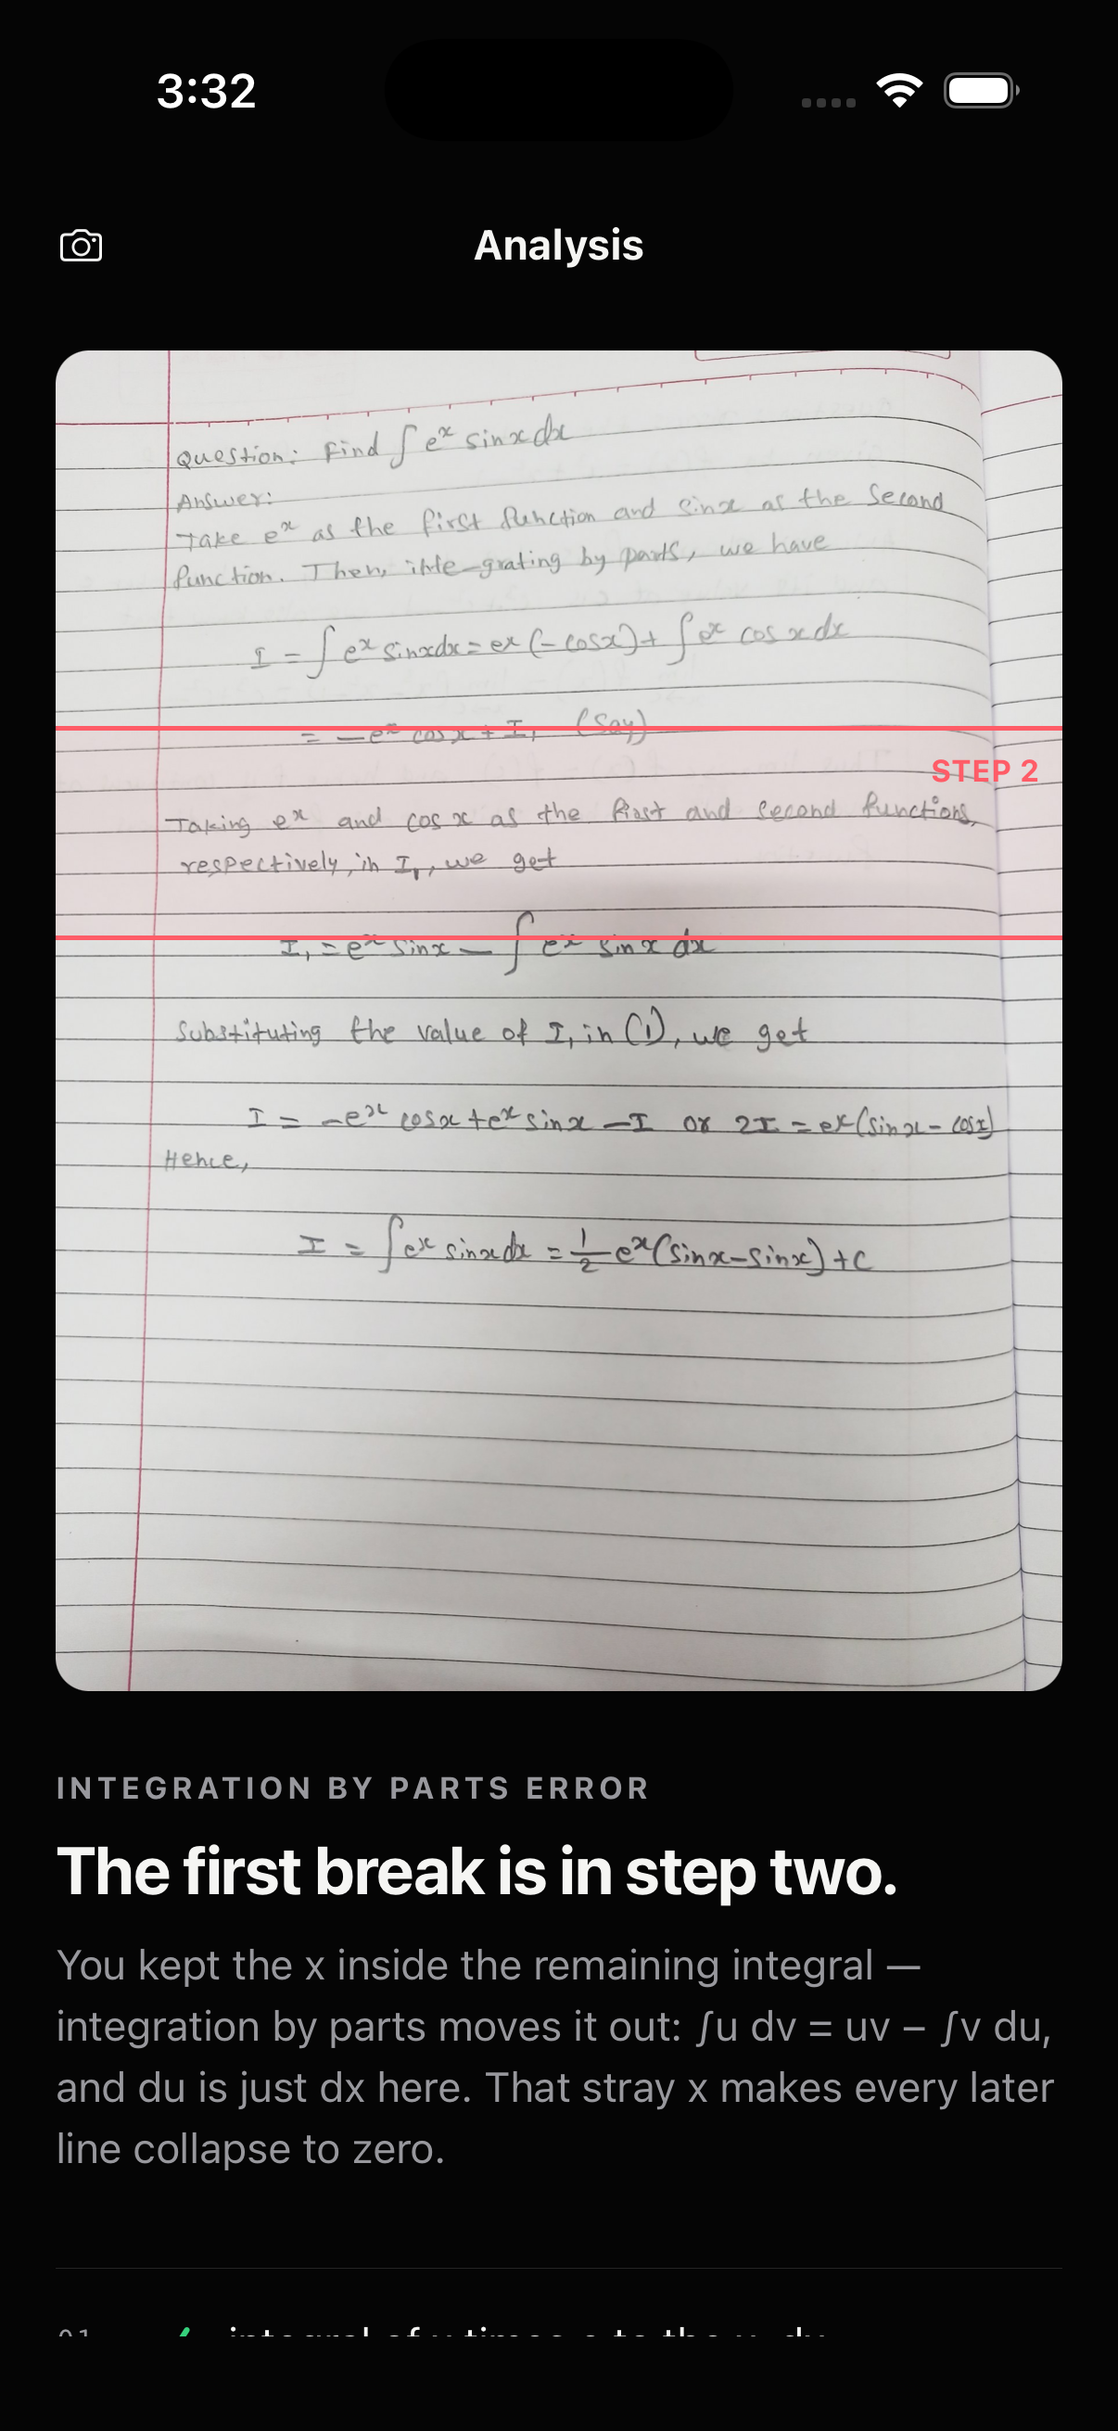
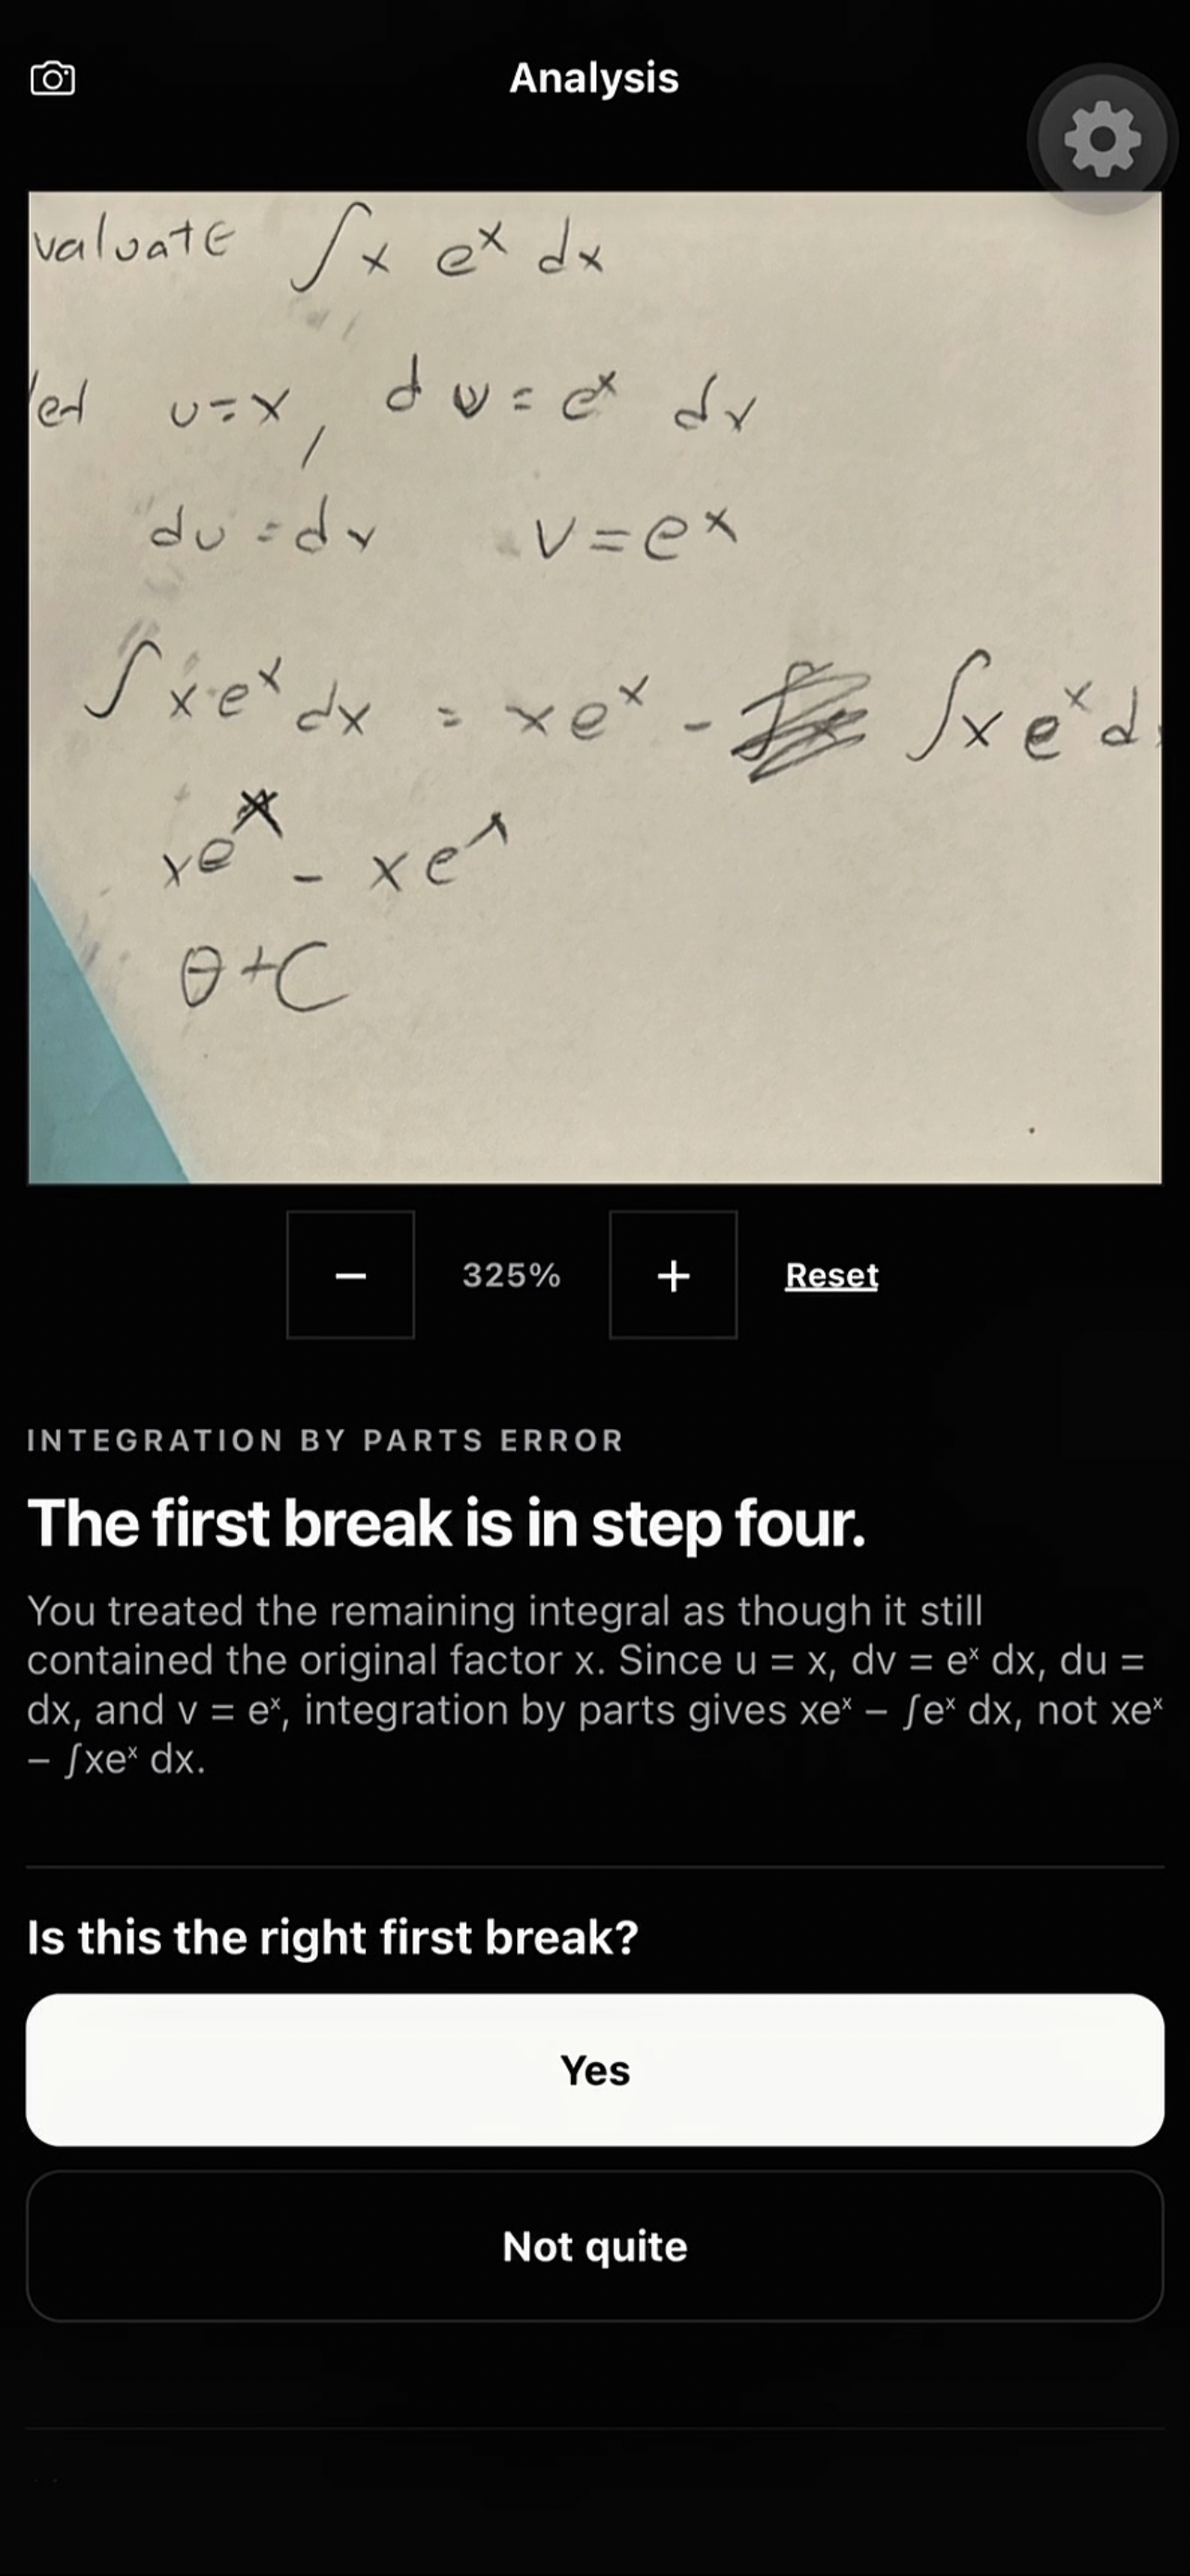
docs: finalize Prometheus submission package

diff --git a/docs/submission/PROMETHEUS-ABOUT.md b/docs/submission/PROMETHEUS-ABOUT.md
@@ -1,45 +1,49 @@
 ## Inspiration
 
-I kept coming back to a frustrating gap in the way most math tools give feedback. A final-answer checker can tell me that my answer is wrong, but that is usually the least useful part. What I really want to know is: **where did my reasoning first stop making sense?**
+I kept coming back to something that frustrated me about most math tools: they can tell you that your final answer is wrong, but they rarely tell you where your thinking first went off track.
 
-That question matters because one early misconception can make every line after it look wrong. When I was learning math, I often wished I could get feedback on the exact step where I went off track instead of comparing my final answer with a solution and trying to work backward. I built Snap-a-Mistake to make that kind of feedback immediate.
+That is usually the part I actually want help with. One small mistake near the beginning can affect every line that follows, and comparing my answer with a completed solution means working backward to guess what happened. I built Snap-a-Mistake because I wanted feedback that starts with a more useful question: **where did my reasoning first stop making sense?**
 
 ## What it does
 
-Snap-a-Mistake is a mobile app that analyzes a photo of handwritten algebra or calculus. It reads the work as a sequence of steps, finds the earliest unsupported step, names the likely misconception, and explains why that transition fails.
+Snap-a-Mistake is a mobile app for handwritten algebra and calculus. A student takes a photo of their work, and the app reads it as a sequence of steps. It then finds the earliest step that does not follow, identifies the likely misconception, and explains what changed.
 
-It then creates a similar practice problem focused on the same idea. The goal is not just to correct one answer. It is to give the student a short learning loop: find the first break, understand it in context, try the concept again, and check the new work.
+The feedback stays connected to the original photo, so the student can see the explanation beside the line they actually wrote instead of looking at a separate answer key. Afterward, the app creates a similar practice problem focused on the same idea.
 
-The diagnosis is shown alongside the original page so the feedback stays connected to what the student actually wrote. The app records misconception categories, scan revisions, follow-up links, and owned scan photos locally on the device until the student deletes them, without requiring an account.
+The goal is not just to correct one answer. It is to create a short learning loop: find the first break, understand it in context, try the idea again, and check the new work. Previous scans, revisions, linked follow-up attempts, and recurring misconception patterns stay on the student's device until they delete them. No account is required.
 
 ## How I built it
 
-I built Snap-a-Mistake as a TypeScript monorepo with three shared parts: an Expo and React Native mobile app, a stateless Fastify server, and a shared package of Zod schemas used by both sides.
+I built the project by myself as a TypeScript monorepo. It has an Expo and React Native mobile app, a stateless Fastify server, and a shared package of Zod schemas that keeps both sides working with the same validated data.
 
-The AI workflow uses separate checks for reading and reasoning. First, a multimodal transcription pass converts the photographed page into ordered steps and estimates where each step appears vertically. A second image pass compares each nonempty transcript with the visible ink before grading continues. Blank or non-math work stays blocked, while ordinary uncertainty continues into diagnosis. The app asks for a new photo only when stage-one confidence is exceptionally low and that second pass rejects both faithfulness and legibility; **Proceed anyway** remains a clearly warned override for that request only. Then a reasoning pass re-derives the solution, identifies the first incorrect step, selects a label from a controlled misconception vocabulary, and creates an explanation and follow-up problem. A final independent verifier checks the diagnosis. If it disagrees, the app shows a softer “second look” state instead of confidently telling the student that a step is wrong.
+I separated the AI workflow into reading, reasoning, and verification instead of relying on one large model response. First, a multimodal pass turns the photographed page into ordered steps and estimates where each line appears on the page. A second image check compares that transcript with the visible handwriting before any grading happens.
 
-I used structured JSON responses and shared validation because model output is part of the product interface, not just text to display. Invalid output receives one correction attempt before reaching the app. The server does not store photos or learning history, while misconception trends are saved locally with SQLite.
+I deliberately made the unreadable-photo warning conservative because I did not want decent handwriting rejected too easily. Blank and non-math photos are still stopped, but ordinary uncertainty continues to the reasoning stage. The app only asks for a new photo when the first pass has exceptionally low confidence and the second check rejects both the transcript's faithfulness and the image's legibility. Even then, the student can choose **Proceed anyway** for that request.
+
+Next, a reasoning pass works through the full solution, finds the first unsupported step, chooses a label from a controlled misconception vocabulary, and creates an explanation and a similar problem. A separate verifier checks that diagnosis. If it disagrees, the app shows a softer “second look” result instead of presenting an uncertain judgment as a fact.
+
+I used structured JSON and shared validation because model output is part of the product interface, not just text to place on a screen. Malformed output gets one correction attempt before it can reach the app. The server does not store photos or learning history; the app stores scan history and patterns locally with SQLite.
 
 ## Challenges I ran into
 
-The hardest problem was making the system find the **first** incorrect step reliably. Checking whether a final answer is correct is much easier. Once an early step is wrong, later steps may also be invalid, but highlighting those later consequences does not help the student understand the original cause.
+The hardest part was getting the system to focus on the **first** incorrect step. Checking a final answer is much easier. Once one early line is wrong, several later lines may also fail, but highlighting a later consequence does not explain the original mistake.
 
-I had to make the pipeline reason across the entire sequence while still returning one precise location. I also introduced a controlled misconception vocabulary so similar errors would receive consistent labels rather than slightly different descriptions every time.
+I had to make the pipeline consider the whole solution while still returning one precise location. I also added a controlled misconception vocabulary so similar errors receive consistent labels instead of a slightly different description on every scan.
 
-Handwriting created another challenge. A page is not clean structured data: lines can be slanted, crossed out, faint, or spaced unevenly. I kept both a mathematical transcription and a plain-language version of each step, along with vertical position bands, so the app could connect the diagnosis back to the photograph.
+Handwriting was another challenge. Real pages are not clean structured data: lines can be faint, slanted, crossed out, or spaced unevenly. I kept both a mathematical transcription and a plain-language reading of each step, along with its approximate vertical position, so the app could connect its diagnosis back to the photograph.
 
-Model reliability also required more than prompt tuning. Responses can be malformed, truncated, or overly confident. Shared schemas, correction retries, an independent verifier, uncertainty states, and regression tests all became important parts of the design.
+I also learned quickly that reliability needed more than prompt tuning. Responses can be malformed, incomplete, or too confident. Shared schemas, correction retries, an independent verifier, uncertainty states, and regression tests all became important parts of the product.
 
 ## What I learned
 
-The biggest thing I learned is that building a useful AI product is not the same as making one impressive model call. Reliability comes from the system around the model: clear interfaces, validation, disagreement handling, good fallback states, and tests that represent real inputs.
+The biggest thing I learned is that building a useful AI product is not the same as making one impressive model call. Most of the reliability comes from the system around the model: clear interfaces, validation, disagreement handling, careful fallback states, and tests based on realistic inputs.
 
-I created a 25-case validation set with 15 synthetic cases and 10 licensed FERMAT handwriting images, and the final repository run has 571 passing automated tests across the app, server, shared schemas, and dataset importer. That process taught me to treat model behavior as something that needs evaluation, not something I should assume will stay consistent.
+I assembled a 25-case evaluation set with 15 synthetic cases and 10 licensed FERMAT handwriting images. The final repository run also has 571 passing automated tests across the app, server, shared schemas, and dataset importer. I am not treating those automated tests as proof that every model response will be correct; they are the guardrails around the pipeline, while the separate image set is there for live-model evaluation.
 
-I also learned that educational feedback needs restraint. When the verifier is uncertain, admitting that uncertainty is better than giving a confident but incorrect diagnosis.
+Most importantly, I learned that educational feedback needs restraint. When the checks disagree, admitting uncertainty is much better than giving a student a confident but incorrect explanation.
 
 ## What’s next
 
-Next, I want to test Snap-a-Mistake with a wider range of handwriting, topics, and real student workflows. I would also like feedback from students and teachers on whether the explanations are clear, whether the follow-up problems feel appropriately targeted, and which recurring patterns are most useful to surface.
+Next, I want to test Snap-a-Mistake with a wider range of handwriting, math topics, and real student workflows. I would especially like feedback from students and teachers about whether the explanations are clear, whether the similar problems feel genuinely useful, and which long-term patterns are worth showing.
 
-The long-term idea is simple: instead of stopping at “wrong answer,” help a student see the first moment their reasoning changed and give them a useful next step.
+The long-term idea is simple: instead of stopping at “wrong answer,” show the student the first moment their reasoning changed and give them a useful next step.

diff --git a/README.md b/README.md
@@ -4,7 +4,7 @@ I built Snap-a-Mistake to make handwritten-math feedback more useful than a fina
 
 The app is an in-progress learning tool, not a guarantee that a model’s diagnosis is right. When independent verification disagrees, it uses a softer “suspect” state instead of presenting the result as certain.
 
-[Demo script](docs/submission/DEMO-SCRIPT.md) · [Devpost copy](docs/submission/DEVPOST.md) · [Project story](docs/submission/PROMETHEUS-ABOUT.md) · [Validation record](docs/validation/2026-07-22-prometheus-readiness.md) · [MIT license](LICENSE)
+[Devpost copy](docs/submission/DEVPOST.md) · [Project story](docs/submission/PROMETHEUS-ABOUT.md) · [Validation record](docs/validation/2026-07-22-prometheus-readiness.md) · [MIT license](LICENSE)
 
 ## See the learning loop
 
@@ -96,7 +96,7 @@ The final automated run on July 28, 2026 completed **571 tests** (42 shared Vite
 
 ## Submission and manual verification
 
-The exact pending physical-phone and rehearsal checks, clean mock/live commands, and recording-security checklist are in the [validation record](docs/validation/2026-07-22-prometheus-readiness.md) and [demo script](docs/submission/DEMO-SCRIPT.md). They are intentionally unchecked: they require a physical phone, a live API key for live-model checks, and a human-run rehearsal.
+The exact pending physical-phone and rehearsal checks, clean mock/live commands, and recording-security checklist are in the [validation record](docs/validation/2026-07-22-prometheus-readiness.md). They are intentionally unchecked: they require a physical phone, a live API key for live-model checks, and a human-run rehearsal.
 
 The project story and ready-to-paste submission material are in [PROMETHEUS-ABOUT.md](docs/submission/PROMETHEUS-ABOUT.md) and [DEVPOST.md](docs/submission/DEVPOST.md).
 

diff --git a/docs/submission/DEVPOST.md b/docs/submission/DEVPOST.md
@@ -41,7 +41,7 @@ The goal is not to make a general tutor chat or another final-answer checker. I 
 ## Submission checklist
 
 - [ ] Complete the physical-phone and live-model checks in the validation record.
-- [ ] Record the live-model core diagnosis using the demo script.
+- [ ] Record and review the live-model core diagnosis.
 - [ ] Label any deterministic mock footage as canned throughout.
 - [ ] Review the export for secrets, notifications, unrelated photos, audio, captions, and signed-out playback.
 - [ ] Complete the required Google form, eligibility review, public-repository check, and submission before the official deadline.
